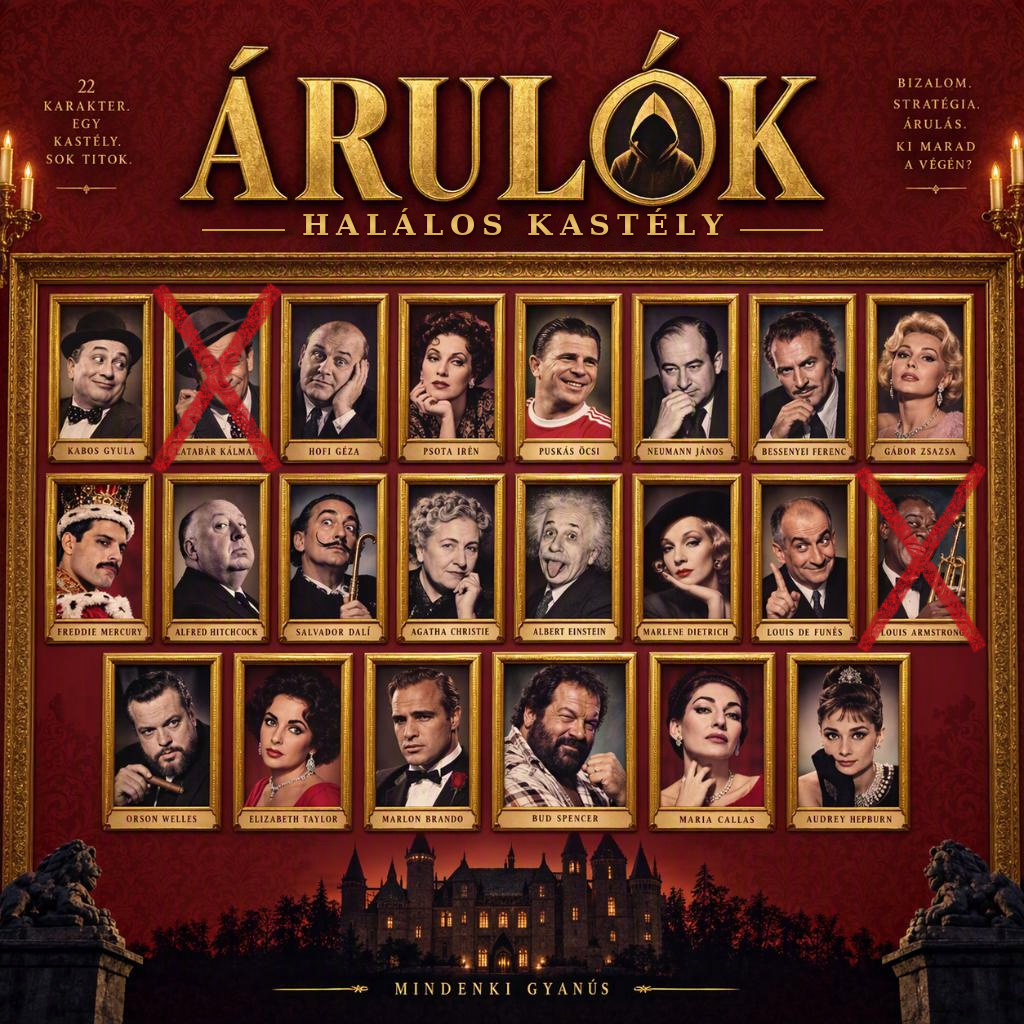
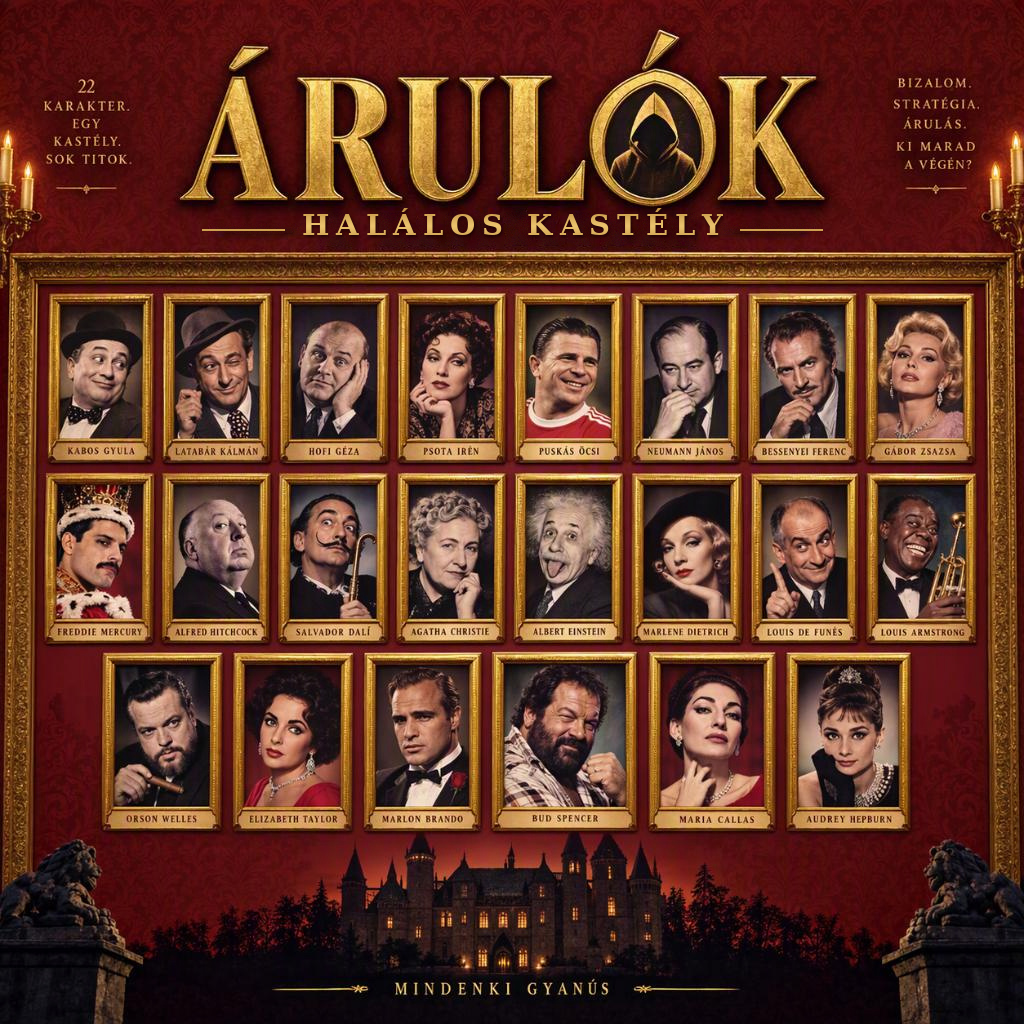
Ajánlóképek: a kép az ajánlott fejezet előtti állást mutatja (2. poszt: eredeti borító, 3.: kihúzásokkal)
Claude-Session: https://claude.ai/code/session_01WtMcei6oMDkG8aLKrejWVN

Changed region(s): [[0.8438, 0.4375, 0.9688, 0.6562], [0.1562, 0.2812, 0.2812, 0.4688], [0.125, 0.4062, 0.1875, 0.4688]]

diff --git a/CLAUDE.md b/CLAUDE.md
@@ -57,7 +57,7 @@ Minden fejezethez (a képek beszerkesztése után, vagy ha nincsenek képek, a s
 - Nagyon enyhe spoiler vagy figyelemfelkeltő érdekesség lehet benne, de csak olyan, ami az olvasói szövegben látszik. Nem árulja el, ki esik ki, ki az áruló, és mi történik később. A titkos tervet nem használja.
 - Nem viccel a szereplők halálának okával, betegségével, koruk, súlyuk, külsejük miatt. Nem említi a tévéműsor nevét. A fejezet linkjével zárul: https://tepsi.github.io/Traitors/
 - A cél az, hogy vasárnap, az új fejezet megjelenésekor felhívja rá a figyelmet.
-- A poszthoz tartozik egy kép is: a `site/borito.png` tábla, amelyen az addig kiesettek vörös zsírkrétával ki vannak húzva. Készítsd el: `python3 ajanlas/kihuzas.py ajanlas/ajanlas-N.png Név1 Név2 ...` (vezetéknevek, lásd a szkript elejét). Csak azokat add meg, akik az **olvasói szöveg szerint** az N. fejezet végéig kiestek (az összes addigit, nem csak az újakat). Az első fejezet után még senki sem esett ki, ahhoz nem kell kép. Nézd meg az eredményt (Read), és commitold a poszttal együtt. Zolinak ne nevezd meg, kik vannak kihúzva az olvasói szövegen túl, és későbbi fejezetek kiesőit se olvasd előre a kép kedvéért.
+- A poszthoz tartozik egy kép is: a `site/borito.png` tábla, amelyen az addig kiesettek vörös zsírkrétával ki vannak húzva. Készítsd el: `python3 ajanlas/kihuzas.py ajanlas/ajanlas-N.png Név1 Név2 ...` (vezetéknevek, lásd a szkript elejét). A kép az ajánlott fejezet **előtti** állást mutatja, hogy a poszt ne lője le a fejezet eseményeit: csak azokat add meg, akik az **olvasói szöveg szerint** az N−1. fejezet végéig kiestek (az összes addigit, nem csak az újakat). Az első fejezetben senki sem esik ki, ezért az `ajanlas-2.png` az eredeti borító (`site/borito.png` másolata); az `ajanlas-3.png` már Armstrong és Latabár kihúzásával készült. Nézd meg az eredményt (Read), és commitold a poszttal együtt. Zolinak ne nevezd meg, kik vannak kihúzva az olvasói szövegen túl, és későbbi fejezetek kiesőit se olvasd előre a kép kedvéért.
 
 ### Commit
 Minden commit üzenete a `Co-Authored-By` és a `Claude-Session` sorokkal végződik, ahogy a környezet előírja. Commit előtt nézd meg a `git status` kimenetét, `privat/` vagy jegyzet ne kerüljön bele.
